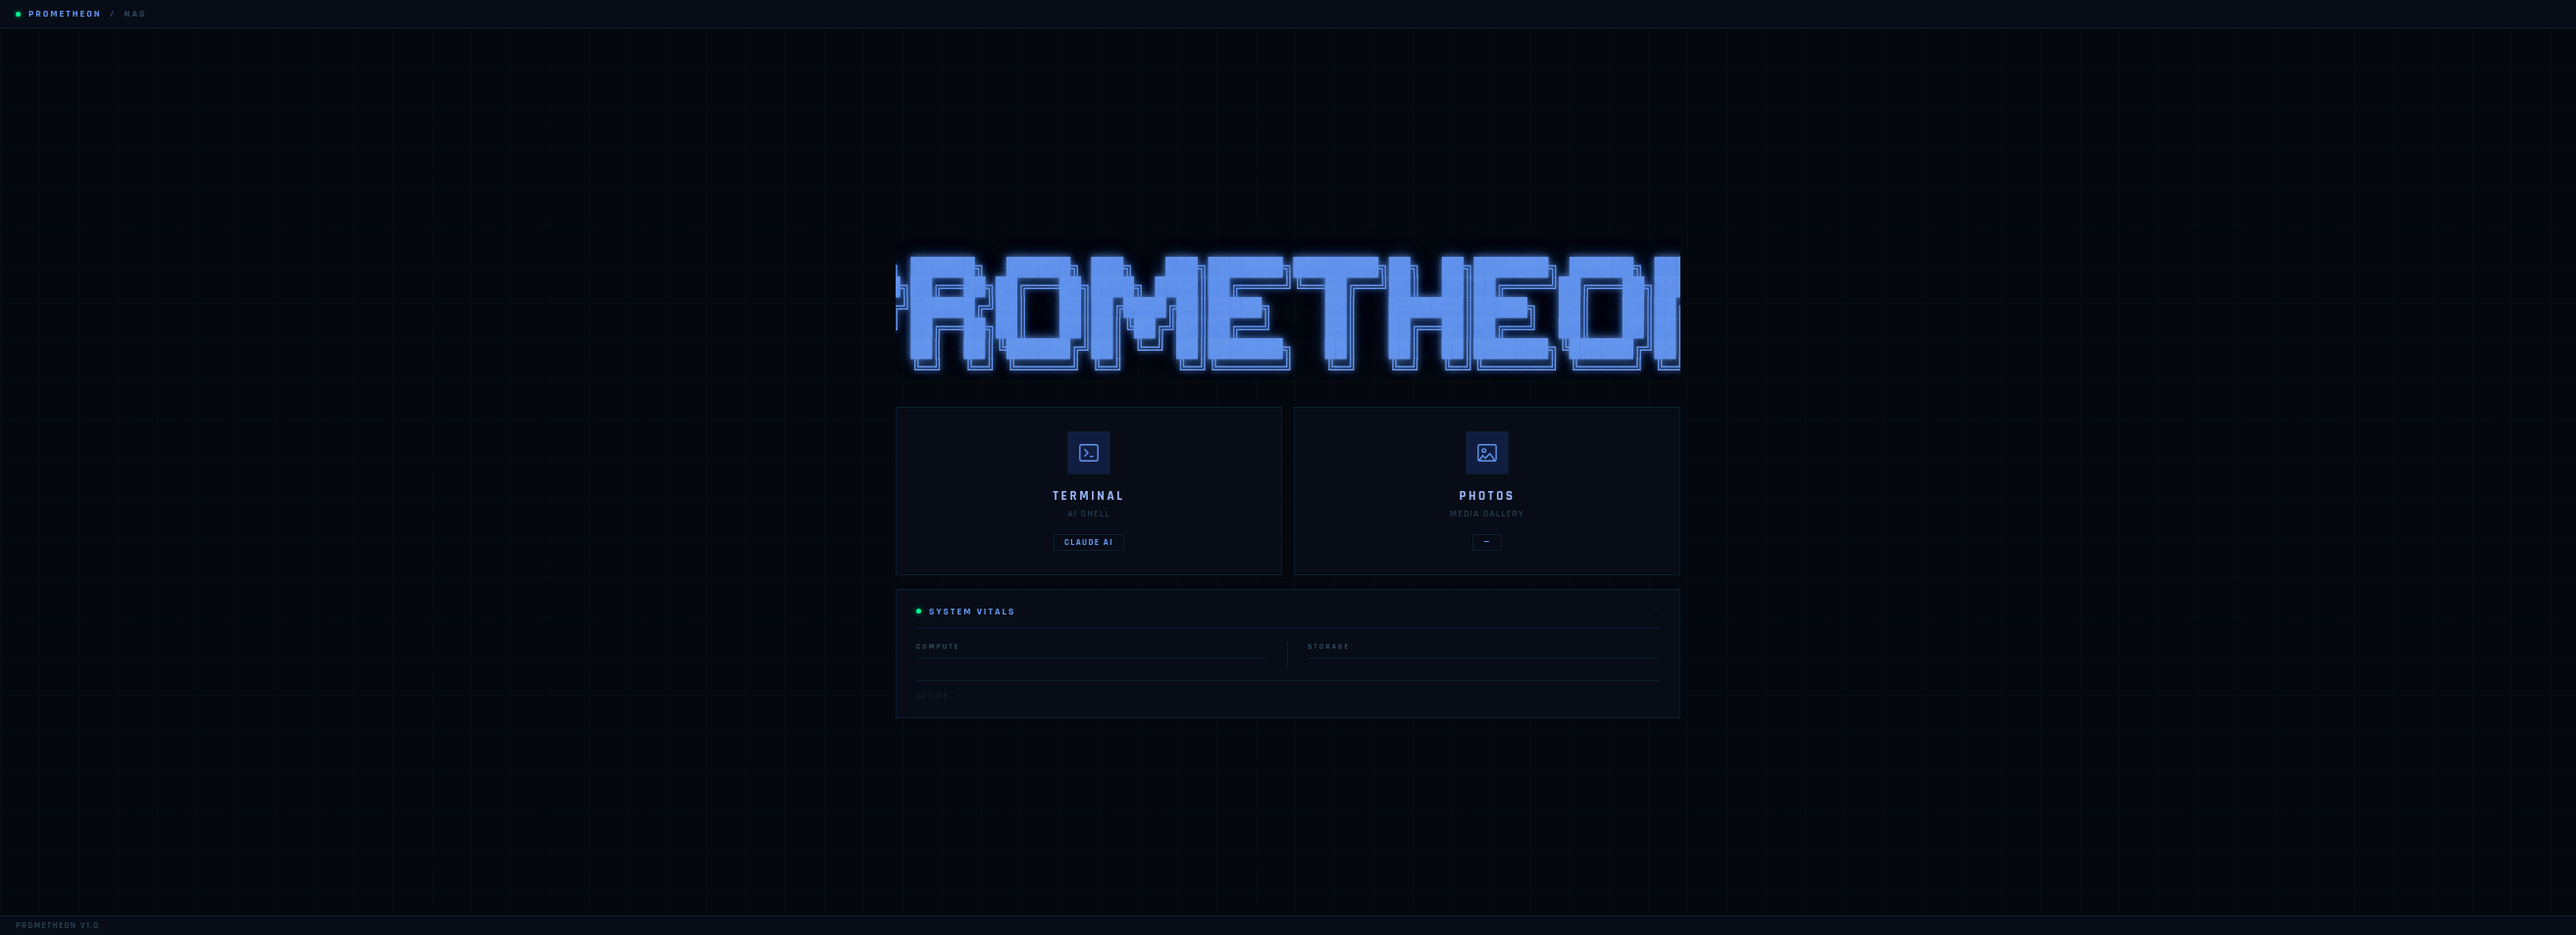
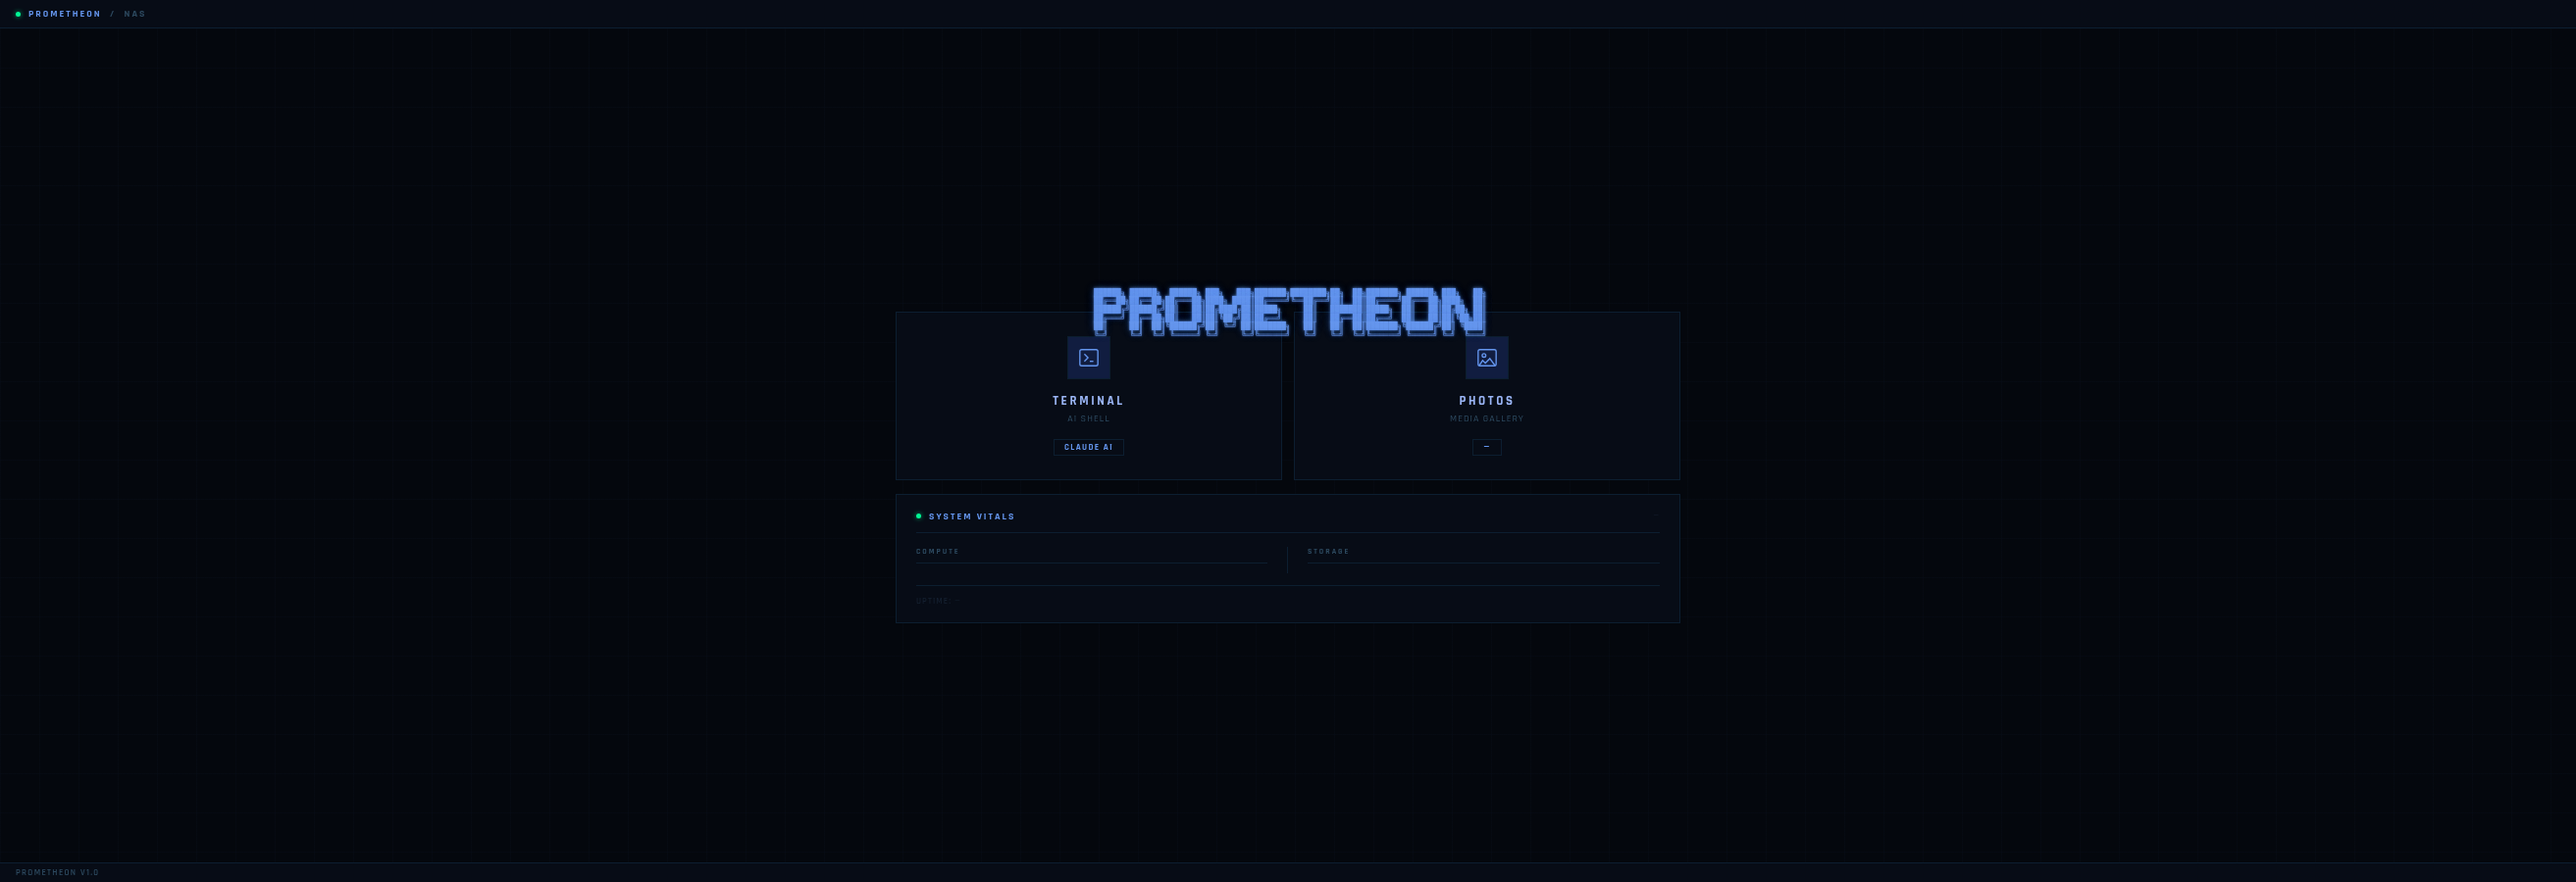
docs: fix clipped PROMETHEON wordmark in V1 shot; drop imageless nexus section

Changed region(s): [[0.3435, 0.2489, 0.6558, 0.5911], [0.3435, 0.6222, 0.3747, 0.6533]]

diff --git a/README.md b/README.md
@@ -19,12 +19,6 @@ under a blue `PROMETHEON` wordmark. More app-launcher than dashboard.
 
 ![V1 — prometheon](docs/screenshots/versions/v1-prometheon.png)
 
-### V2 · `nexus`
-The rename. `prometheon` became **nexus** as a second machine came online — the small "nexus" mini-NAS
-beside the main host. A bridge phase: it carried V1's foundation forward and set up the two-box split.
-*(No standalone dashboard from this short-lived naming era survives in the history — it went straight
-into V3.)*
-
 ### V3 · `ARES & NEXUS`
 Two boxes. The main host became **ARES** (the "super-NAS"), with **NEXUS** as its mini-NAS peer. The
 dashboard grew into the red **ARES** wordmark, a capability-gated layout shared across both machines,
